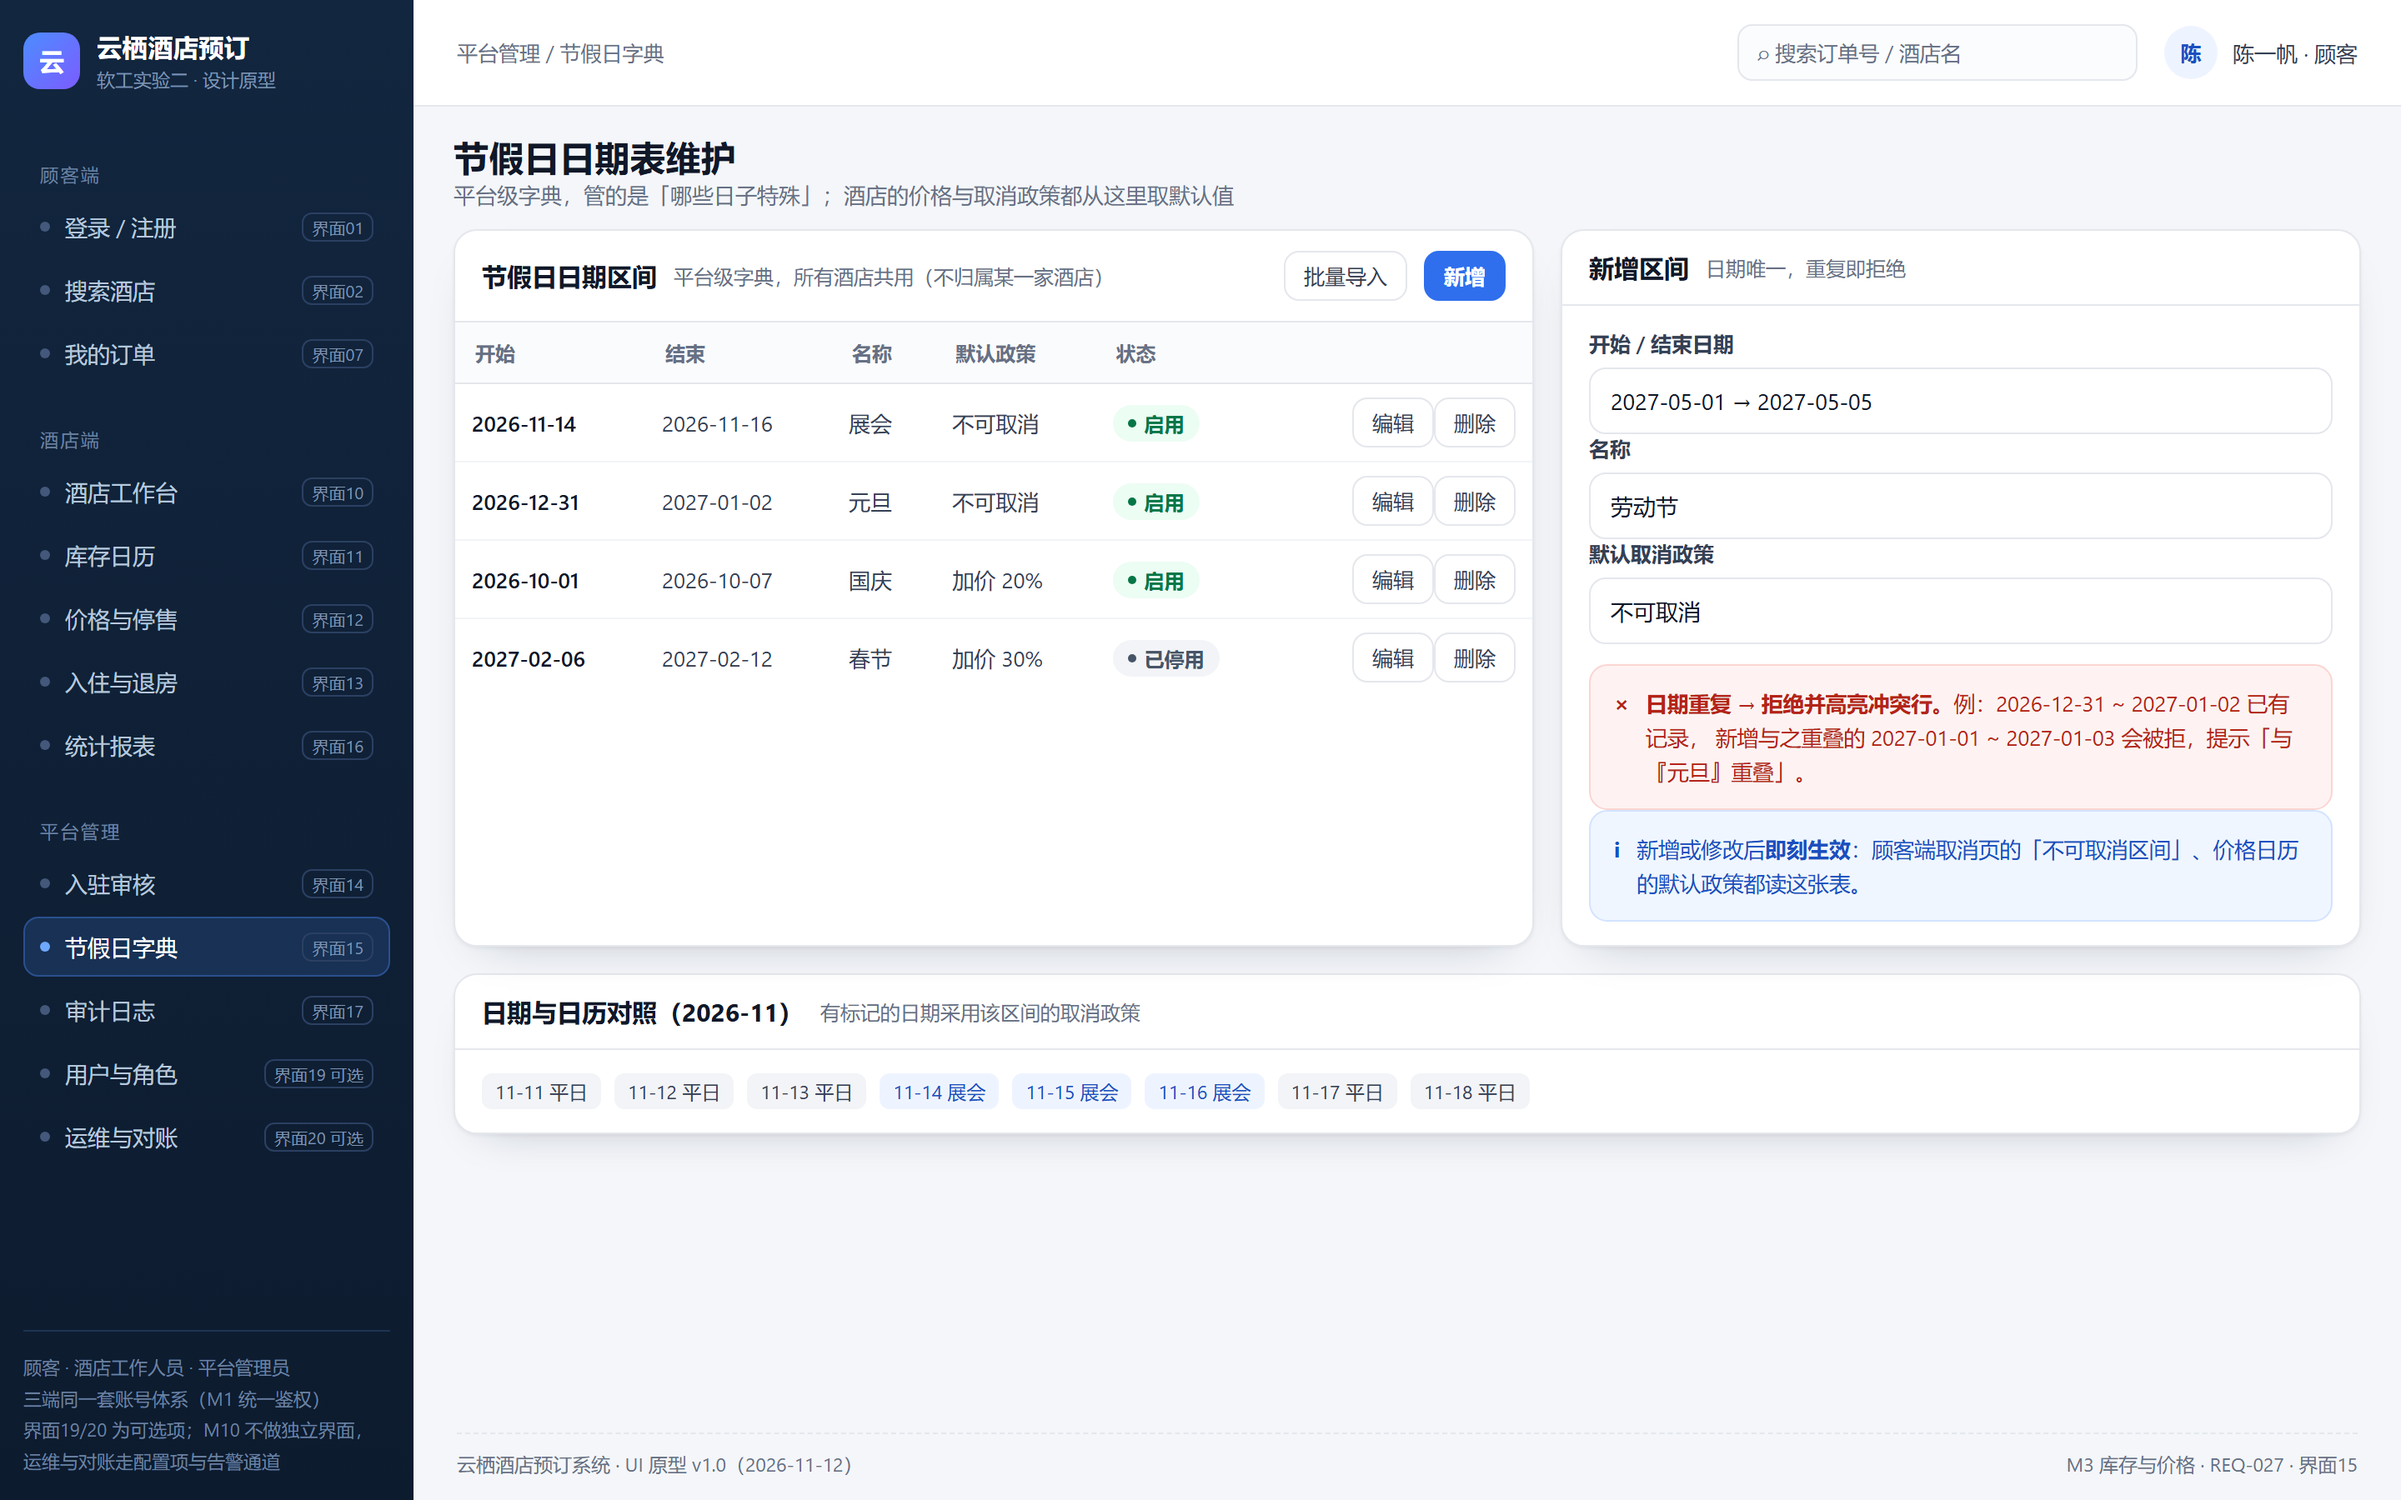
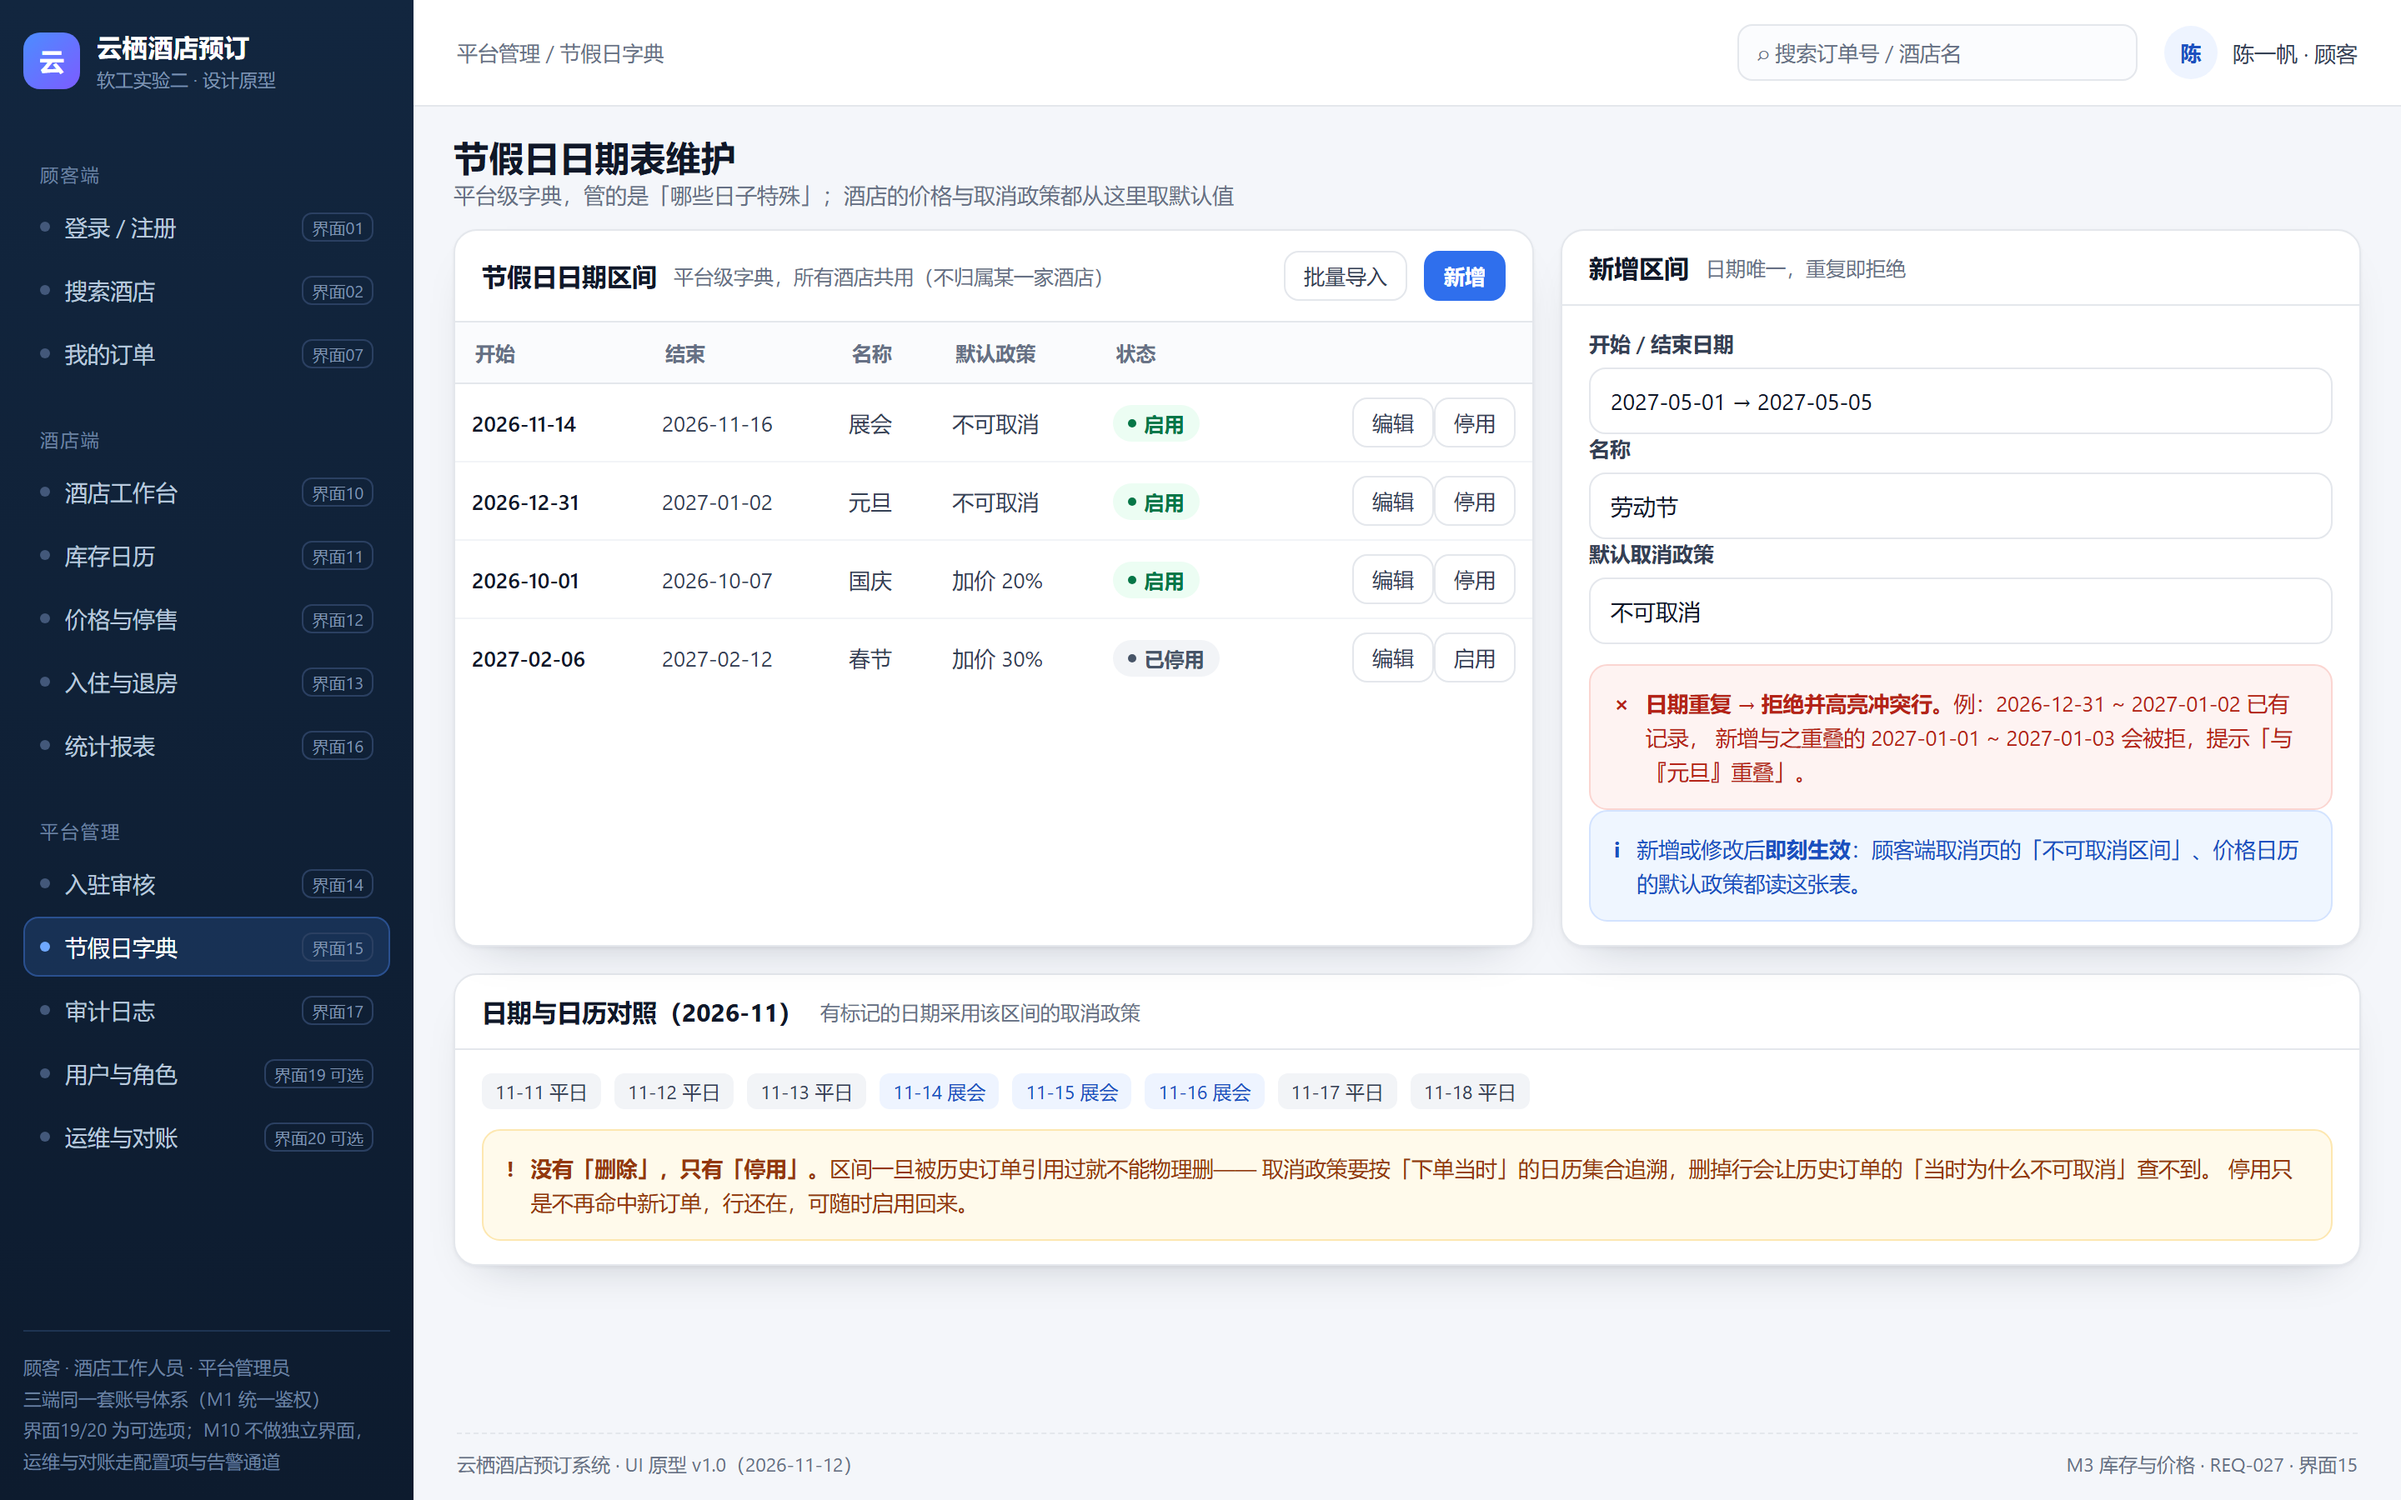
[S6-fix] 节假日只能停用不能删除（D-18）+ 03 表结构与 REQ 编号订正
D-18（评审 S6）：界面 15 原来只有「编辑 / 删除」，没有回答"被历史订单引用过的区间能不能物理删"。
现在改为：动作只有「编辑 / 停用」（已停用行显示「启用」），并写明理由——
取消政策要按"下单当时"的日历集合追溯（REQ-010 的不可取消区间就来自这张表），
删掉一行，历史订单的"当时为什么不可取消"就查不到了，审计链断在字典表上。

配套：
- 03 §2.12 holiday_calendar 补「状态（启用 / 停用）」字段与一段"为什么只能停用"的说明
- 03 §9.2 T4 的 REQ 编号订正：026 → 027（REQ-026 是注册登录，节假日表是 REQ-027）
- 界面说明.md 界面15 行同步（动作只有编辑/停用 + 历史追溯理由）
- 界面11 的 PNG 与 HTML 用 gen.py 重新生成，把 fff3023 里"两条路径"的措辞同步进产物

自检：check.py --stage 6 = 40/40、--stage 1 = 50/50 均 PASS

diff --git a/exp2/UI界面/_src/界面15.html b/exp2/UI界面/_src/界面15.html
@@ -49,22 +49,22 @@
       <tr>
         <td class="strong">2026-11-14</td><td>2026-11-16</td><td>展会</td><td>不可取消</td>
         <td><span class="badge b-checkin"><span class="d"></span>启用</span></td>
-        <td style="text-align:right;"><span class="btn sm">编辑</span><span class="btn sm">删除</span></td>
+        <td style="text-align:right;"><span class="btn sm">编辑</span><span class="btn sm">停用</span></td>
       </tr>
       <tr>
         <td class="strong">2026-12-31</td><td>2027-01-02</td><td>元旦</td><td>不可取消</td>
         <td><span class="badge b-checkin"><span class="d"></span>启用</span></td>
-        <td style="text-align:right;"><span class="btn sm">编辑</span><span class="btn sm">删除</span></td>
+        <td style="text-align:right;"><span class="btn sm">编辑</span><span class="btn sm">停用</span></td>
       </tr>
       <tr>
         <td class="strong">2026-10-01</td><td>2026-10-07</td><td>国庆</td><td>加价 20%</td>
         <td><span class="badge b-checkin"><span class="d"></span>启用</span></td>
-        <td style="text-align:right;"><span class="btn sm">编辑</span><span class="btn sm">删除</span></td>
+        <td style="text-align:right;"><span class="btn sm">编辑</span><span class="btn sm">停用</span></td>
       </tr>
       <tr>
         <td class="strong">2027-02-06</td><td>2027-02-12</td><td>春节</td><td>加价 30%</td>
         <td><span class="badge b-checkout"><span class="d"></span>已停用</span></td>
-        <td style="text-align:right;"><span class="btn sm">编辑</span><span class="btn sm">删除</span></td>
+        <td style="text-align:right;"><span class="btn sm">编辑</span><span class="btn sm">启用</span></td>
       </tr></tbody>
     </table>
   </div>
@@ -93,6 +93,11 @@
       <span class="pill">11-11 平日</span><span class="pill">11-12 平日</span><span class="pill">11-13 平日</span>
       <span class="pill blue">11-14 展会</span><span class="pill blue">11-15 展会</span><span class="pill blue">11-16 展会</span>
       <span class="pill">11-17 平日</span><span class="pill">11-18 平日</span>
+    </div>
+    <div class="alert a-warn mt12"><span class="ic">!</span>
+      <div><b>没有「删除」，只有「停用」。</b>区间一旦被历史订单引用过就不能物理删——
+        取消政策要按「下单当时」的日历集合追溯，删掉行会让历史订单的「当时为什么不可取消」查不到。
+        停用只是不再命中新订单，行还在，可随时启用回来。</div>
     </div>
   </div>
 </div>

diff --git a/exp2/UI界面/_src/界面11.html b/exp2/UI界面/_src/界面11.html
@@ -94,7 +94,8 @@
     <div class="card-body">
       <div class="hint">① 一次可改多天，任一天校验失败则整批回滚（不留"改了一半"的中间态）；<br>
         ② 停售日期要改库存，先恢复销售状态；<br>
-        ③ 改总房量（如 20 → 18）同样要 ≥ 各日已占用，超额时把该日可售一并钳制。</div>
+        ③ 「改总房量」（房型级：判据 N′ ≥ 各日已占用，通过后把各日可售钳制为 min(可售, N′)）
+          与「按日改可售」（本页逐格，只动那一天，不碰总房量）是两条路径，判据不同，别混。</div>
     </div>
   </div>
 </div>

diff --git a/exp2/UI界面/_src/gen.py b/exp2/UI界面/_src/gen.py
@@ -1160,7 +1160,7 @@ def page15() -> str:
       <tr>
         <td class="strong">{a}</td><td>{b}</td><td>{name}</td><td>{policy}</td>
         <td><span class="badge {'b-checkin' if st == '启用' else 'b-checkout'}"><span class="d"></span>{st}</span></td>
-        <td style="text-align:right;"><span class="btn sm">编辑</span><span class="btn sm">删除</span></td>
+        <td style="text-align:right;"><span class="btn sm">编辑</span><span class="btn sm">{'启用' if st == '已停用' else '停用'}</span></td>
       </tr>""" for a, b, name, policy, st in rows)
 
     body = f"""
@@ -1198,6 +1198,11 @@ def page15() -> str:
       <span class="pill">11-11 平日</span><span class="pill">11-12 平日</span><span class="pill">11-13 平日</span>
       <span class="pill blue">11-14 展会</span><span class="pill blue">11-15 展会</span><span class="pill blue">11-16 展会</span>
       <span class="pill">11-17 平日</span><span class="pill">11-18 平日</span>
+    </div>
+    <div class="alert a-warn mt12"><span class="ic">!</span>
+      <div><b>没有「删除」，只有「停用」。</b>区间一旦被历史订单引用过就不能物理删——
+        取消政策要按「下单当时」的日历集合追溯，删掉行会让历史订单的「当时为什么不可取消」查不到。
+        停用只是不再命中新订单，行还在，可随时启用回来。</div>
     </div>
   </div>
 </div>
@@ -1347,4 +1352,4 @@ if __name__ == "__main__":
     for name, fn in PAGES.items():
         p = OUT / f"{name}.html"
         p.write_text(fn(), encoding="utf-8")
-        print(name, len(p.read_text(encoding="utf8 - gen.py:1350")), "chars")
+        print(name, len(p.read_text(encoding="utf-8")), "chars")

diff --git a/exp2/UI界面/界面说明.md b/exp2/UI界面/界面说明.md
@@ -34,7 +34,7 @@
 | 界面12 | 价格日历与停售 | M3 库存与价格 | REQ-024、REQ-012、REQ-023 | 酒店工作人员；导航「价格与停售」 | 房型×日期价格矩阵、单房型停售开关、整店停业入口、不可取消区间（只读，来自节假日表） | 逐日改价 / 停售 / 停业（二次确认） | 改价**只影响新单**，已确认订单按 `booking_night` 快照结算；停售写「暂停销售」而不是「已订满」；停业前先列出受影响订单数与间夜数，已确认单须逐单协商（REQ-023） |
 | 界面13 | 入住 / 退房办理 | M6 履约与调度 | REQ-013、REQ-011 | 酒店工作人员（前台）；导航「入住与退房」 | 核对订单（订单号或手机号后四位）、核对结果卡、办理入住（T4）/ 办理退房（T8）/ 标记未入住（T6）三动作卡 | 核验 → 办理入住或退房 | 状态非「已确认」→ 409 并显示当前状态，库存不变；**「标记未入住」过了入住日 23:59 置灰**并说明「系统将于次日 00:05 自动置为已入住（T5）」 |
 | 界面14 | 入驻申请与审核 | M2 酒店与房型 | REQ-025 | 平台管理员；导航「入驻审核」 | 申请列表（酒店/等级/提交时间/状态）、资料详情（执照、消防、房型房量、联系人、结算账户）、审核意见（通过/驳回/补充材料） | 看资料 → 提交结论 → 通过后自动建账号与 90 天库存行 | 驳回或补充材料**必填理由**；通过后按总房量建每日库存行（幂等，重复点不出重复行）；审核只改酒店状态与账号，不动业务数据 |
-| 界面15 | 节假日日期表维护 | M3 库存与价格 | REQ-027 | 平台管理员；导航「节假日字典」 | 区间列表（开始/结束/名称/默认政策/状态）、新增区间表单、日历对照条 | 新增/编辑区间 → 即刻生效 | **日期重复 → 拒绝并高亮冲突行**，提示「与『元旦』重叠」；改动即刻影响顾客端「不可取消区间」与价格日历默认政策 |
+| 界面15 | 节假日日期表维护 | M3 库存与价格 | REQ-027 | 平台管理员；导航「节假日字典」 | 区间列表（开始/结束/名称/默认政策/状态、**动作只有「编辑 / 停用」没有「删除」**）、新增区间表单、日历对照条 | 新增/编辑区间 → 即刻生效 | **日期重复 → 拒绝并高亮冲突行**，提示「与『元旦』重叠」；**被历史订单引用过的区间不能物理删，只能停用**（取消政策按「下单当时」的日历集合追溯，删行会让历史的「当时为什么不可取消」查不到）；改动即刻影响顾客端「不可取消区间」与价格日历默认政策 |
 | 界面16 | 统计看板 | M8 报表统计 | REQ-016 | 酒店工作人员 / 平台管理员；导航「统计报表」 | 本店/全平台切换、4 个 KPI（入住率/订单量/取消率/RevPAR）、按日趋势柱状图、指标口径卡、导出（I21） | 切视角与区间 → 看指标 → 导出汇总 | 全页**只读**；导出只有**汇总数据**（I15 汇总 → I21 趋势与导出），不含逐条订单明细；无数据时空态写明区间无成交并给口径，不画 0 的假趋势 |
 | 界面17 | 审计日志查询 | M9 审计与日志 | REQ-017 | 平台管理员；导航「审计日志」 | 查询条件（操作人/角色/对象/日期/动作）、结果表（时间/操作人/对象/动作/变更前后/备注）、三条硬约束卡 | 设条件 → 查询 → 导出（需申请） | **只追加不可改不可删**；**保留 180 天**，超期提示「已归档，需申请导出」；**越权 403**（酒店只看本店，跨店查询被拒并记一条越权尝试）；被拒绝的请求（越权、409）也留痕 |
 

diff --git a/exp2/设计基线/03_数据设计.md b/exp2/设计基线/03_数据设计.md
@@ -138,6 +138,11 @@
 |---|---|
 | 日期 | **唯一**（REQ-027） |
 | 名称 | 可空 |
+| 状态 | 枚举（启用 / 停用），默认启用；**界面上的「删除」= 置为停用**，行不物理删 |
+
+> 为什么"删除"只能是停用（评审 D-18）：取消政策要按"下单当时"的节假日集合判定，REQ-010 的不可取消区间就来自这张表。
+> 物理删掉一行，历史订单"当时为什么不可取消"就查不到了——审计链断在字典表上。所以改状态就行：判定与查询只认状态=启用的行，
+> 追溯历史按订单创建时间还原当时的启用集合（与 `audit_log` 的"被拒绝的请求也留痕"同一思路：只标记，不抹掉）。
 
 ---
 
@@ -257,7 +262,7 @@
 | T1 | 订单号唯一 | `booking.订单号`（主键） | 订单标识不可重复 |
 | T2 | 幂等键唯一 | `idempotency_key.键值`（主键） | 同一幂等键只允许建一单（REQ-014 的第二次点击不产生第二单） |
 | T3 | 订单 × 晚 唯一 | `booking_night(订单号, 日期)` | 一单的某一晚只有一条单价快照，否则总价重复累加 |
-| T4 | 节假日日期唯一 | `holiday_calendar.日期` | 同日不重复登记（REQ-026），否则价格规则命中两次 |
+| T4 | 节假日日期唯一 | `holiday_calendar.日期` | 同日不重复登记（REQ-027），否则价格规则命中两次；停用行保留，唯一性照样拦重复登记 |
 
 ### 9.3 不写成唯一约束的三处（避免误用）
 
